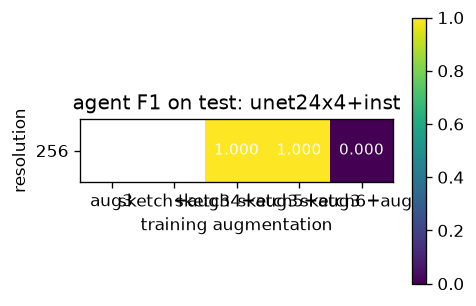
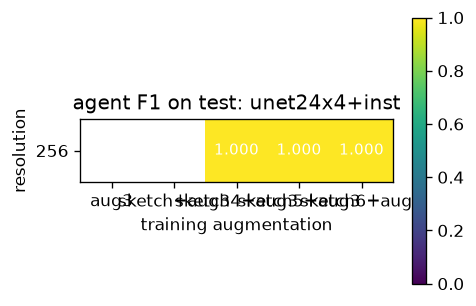
Sketch v6: training, evaluation and the drawings

Changed region(s): [[0.6765, 0.3824, 0.8235, 0.6176]]

diff --git a/perception/results/sketch6/table_res_aug.md b/perception/results/sketch6/table_res_aug.md
@@ -6,10 +6,10 @@ Each cell: agent F1 · centre error (units) · heading error (deg) · scene_usab
 
 | resolution | aug3 | sketch+aug3 | sketch4+aug3 | sketch5+aug3 | sketch6+aug3 |
 |---|---|---|---|---|---|
-| 256 |  |  | 1.000 · 0.11 · 1.0 · 1.00 (n=1) | 1.000 · 0.09 · 0.9 · 1.00 (n=1) | 0.000 · – · – · 0.00 (n=1) |
+| 256 |  |  | 1.000 · 0.11 · 1.0 · 1.00 (n=1) | 1.000 · 0.09 · 0.9 · 1.00 (n=1) | 1.000 · 0.09 · 1.1 · 1.00 (n=1) |
 
 ## `test_aug3` — unet24x4+inst
 
 | resolution | aug3 | sketch+aug3 | sketch4+aug3 | sketch5+aug3 | sketch6+aug3 |
 |---|---|---|---|---|---|
-| 256 |  |  | 1.000 · 0.11 · 0.9 · 1.00 (n=1) | 1.000 · 0.07 · 0.9 · 1.00 (n=1) | 0.003 · 0.11 · 1.5 · 0.00 (n=1) |
+| 256 |  |  | 1.000 · 0.11 · 0.9 · 1.00 (n=1) | 1.000 · 0.07 · 0.9 · 1.00 (n=1) | 1.000 · 0.08 · 1.0 · 1.00 (n=1) |
